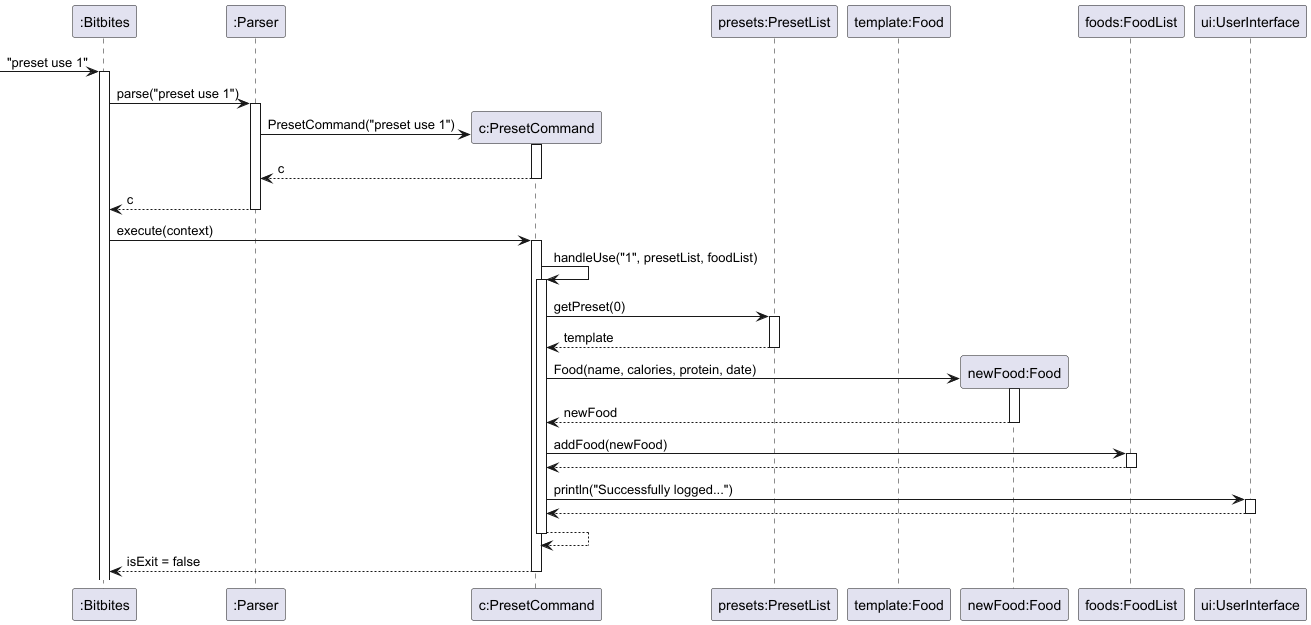
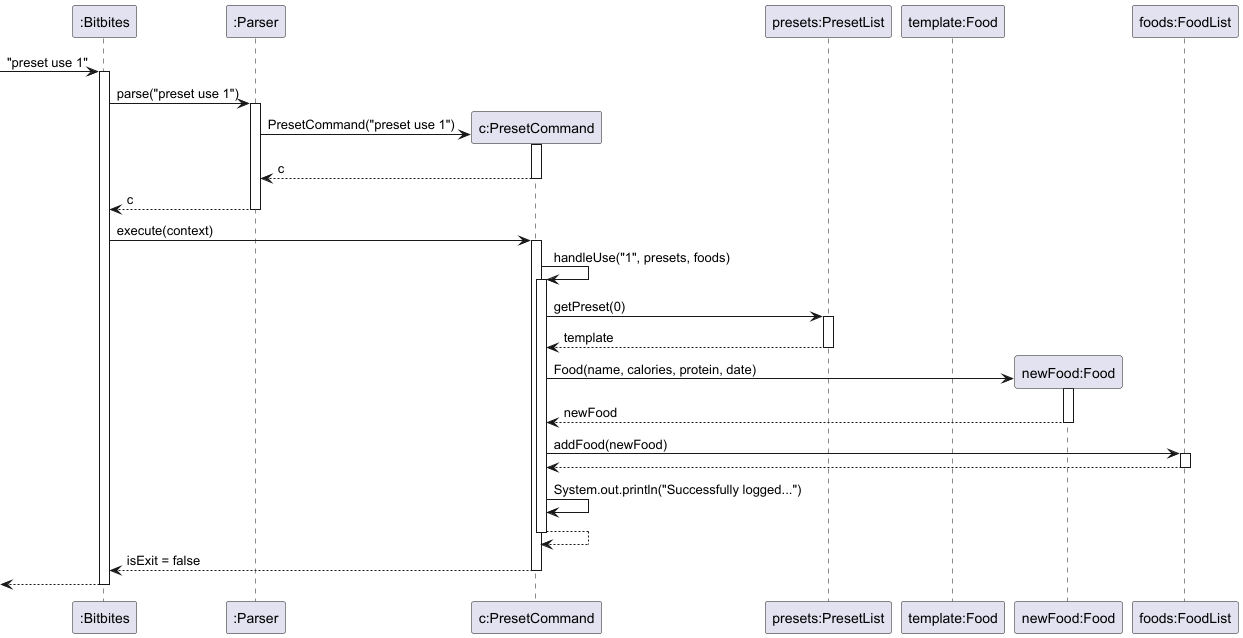
Update UML diagrams

diff --git a/docs/team/j-kennethh.md b/docs/team/j-kennethh.md
@@ -1,0 +1,26 @@
+# John Kenneth - Project Portfolio Page
+
+## Overview
+
+BitBites is a command-line food tracking chatbot that helps users log daily meals, monitor nutritional intake, and track progress against personal health goals.
+It is written in Java and targets users who prefer fast, keyboard-driven interfaces over graphical applications.
+
+My contributions focused on the listing, storage, and presets feature, including the `list`, `preset add`, `preset list`, `preset delete`, `preset use` commands.
+
+---
+
+## Summary of Contributions
+
+### Code Contributed
+
+[Link to tP Code Dashboard](https://nus-cs2113-ay2526-s2.github.io/tp-dashboard/?search=j-kennethh&sort=groupTitle&sortWithin=title&timeframe=commit&mergegroup=&groupSelect=groupByRepos&breakdown=true&checkedFileTypes=docs~functional-code~test-code~other&since=2026-02-20T00%3A00%3A00&filteredFileName=&tabOpen=true&tabType=authorship&tabAuthor=j-kennethh&tabRepo=AY2526S2-CS2113-F14-2%2Ftp%5Bmaster%5D&authorshipIsMergeGroup=false&authorshipFileTypes=docs~functional-code~test-code&authorshipIsBinaryFileTypeChecked=false&authorshipIsIgnoredFilesChecked=false)
+
+---
+
+### Enhancements Implemented
+
+#### 1. List Commands (`list`, `list d/DATE`)
+
+#### 2. Preset Commands (`preset add`, `preset list`, `preset delete`, `preset use`)
+
+#### 3. Storage Features
